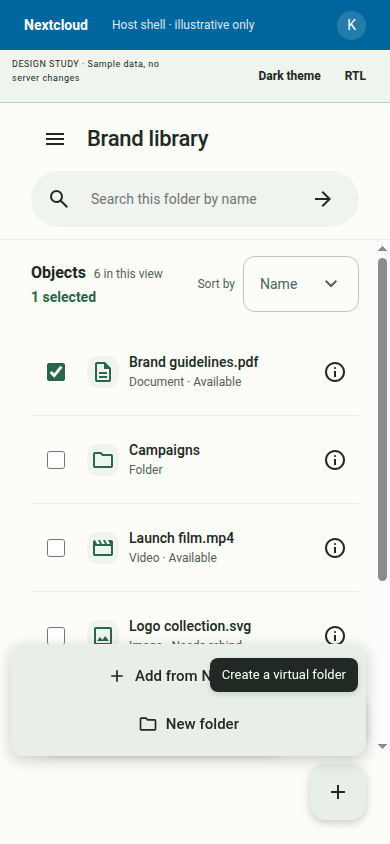
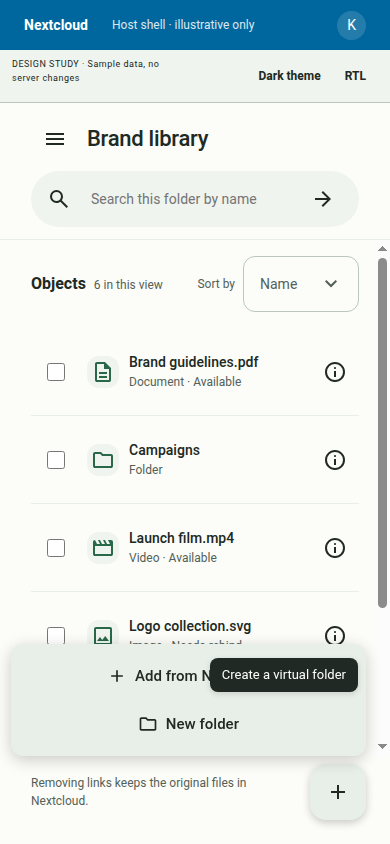
Refine responsive actions, FAB menu placement and full-row feedback

diff --git a/docs/design/prototype/prototype.css b/docs/design/prototype/prototype.css
@@ -91,7 +91,7 @@ body { margin:0; font:14px/1.5 system-ui,sans-serif; background:#f7f8fa; color:#
 #media-design .fab-area {position:fixed;z-index:10;}
 #media-design button.fab {display:flex;align-items:center;gap:12px;min-height:56px;min-width:56px;border-radius:16px;padding:16px 22px;background:var(--secondary);color:var(--on);box-shadow:0 3px 8px #0003;font-size:16px;}
 #media-design .fab[aria-expanded=true] {background:var(--container);}
-#media-design .action-menu {position:fixed;z-index:15;min-width:240px;background:var(--container);border-radius:12px;padding:8px;box-shadow:0 4px 16px #0003;max-height:calc(100dvh - 100px);overflow:auto;}
+#media-design .action-menu {position:fixed;z-index:15;width:max-content;min-width:min(240px,calc(100vw - 16px));background:var(--container);border-radius:12px;padding:8px;box-shadow:0 4px 16px #0003;max-height:calc(100dvh - 100px);overflow:auto;}
 #media-design .action-menu button {display:flex;align-items:center;gap:12px;width:100%;text-align:start;border-radius:8px;font-size:15px;font-weight:500;}
 #media-design .selection {z-index:9;display:flex;align-items:center;gap:8px;max-width:100%;min-height:64px;flex-shrink:0;}
 #media-design #reference-toolbar {background:var(--secondary);border-radius:32px;padding:8px;min-height:64px;box-shadow:0 3px 8px #0003;min-width:0;}
@@ -167,22 +167,31 @@ body { margin:0; font:14px/1.5 system-ui,sans-serif; background:#f7f8fa; color:#
  @keyframes toolbar-enter {from {opacity:0;translate:0 16px;} to {opacity:1;translate:0 0;}}
 }
 
-/* Compact creation stays available below reference actions until Add is invoked. */
+/* The FAB collapses to an icon on narrow panes and hides during reference actions. */
 @container plugin (max-width:1199px) {
  #media-design button.fab {padding:16px;}
  #media-design .fab>span {display:none;}
- #media-design main.has-toolbar.has-fab .selection {position:absolute;bottom:calc(100% + 4px);left:50%;transform:translateX(-50%);width:max-content;max-width:calc(100% - 32px);}
- #media-design main.has-toolbar.has-fab .library-footer {min-height:88px;padding:8px 16px 24px;}
- #media-design main.has-toolbar.has-fab .main-scroll {padding-block-end:92px;scroll-padding-block-end:92px;}
 }
 
 #media-design #add-bucket {margin-inline-start:auto;display:inline-flex;align-items:center;gap:4px;padding-inline:10px;white-space:nowrap;}
 #media-design .bucket-title {padding-inline-end:12px;}
 @container plugin (max-width:599px) {
- #media-design main.has-toolbar.has-fab .selection {width:calc(100% - 48px);max-width:calc(100% - 48px);}
- #media-design main.has-toolbar.has-fab #reference-toolbar {flex:1;justify-content:space-evenly;}
+ #media-design main.has-toolbar .library-footer {padding-inline:24px;}
+ #media-design main.has-toolbar .selection {width:100%;max-width:100%;}
+ #media-design main.has-toolbar #reference-toolbar {flex:1;justify-content:space-evenly;}
 }
 
 /* Packing is measured from pane space; icon targets never shrink below 48px. */
 #media-design .toolbar-actions.icon-actions .action-label {display:none;}
 #media-design .toolbar-actions.icon-actions button {width:48px;flex:0 0 48px;padding:0;}
+
+/* Extend the primary action without nesting the independent row controls. */
+#media-design .object {position:relative;isolation:isolate;}
+#media-design .object:hover,#media-design .object:has(:focus-visible) {background:var(--container);}
+#media-design .object:has(:active) {background:color-mix(in srgb,var(--on) 12%,var(--surface));}
+#media-design .object-name:hover {background:transparent;}
+#media-design .object-name::before {content:"";position:absolute;inset:0;cursor:pointer;}
+#media-design .object-name:focus-visible {outline:none;}
+#media-design .object-name:focus-visible::before {outline:3px solid var(--primary);outline-offset:-3px;}
+#media-design .object>.check,#media-design .object>.icon {position:relative;z-index:1;}
+#media-design .object>.type,#media-design .object>.binding {pointer-events:none;}

diff --git a/docs/design/prototype/prototype.js b/docs/design/prototype/prototype.js
@@ -108,9 +108,8 @@ function layoutToolbar(){
  const priority=['move-links','paste-links','copy-links','rename-link','remove-links'];
  const signature=()=>[...actions,'more-actions'].map(id=>$(id).hidden).join(',');
  const previous=signature();
- const mainWidth=$('main').getBoundingClientRect().width;
  const footerStyle=getComputedStyle($('library-footer'));
- const groupBudget=root.clientWidth<1200?mainWidth-(root.clientWidth<600?48:32):$('library-footer').clientWidth-parseFloat(footerStyle.paddingLeft)-parseFloat(footerStyle.paddingRight);
+ const groupBudget=$('library-footer').clientWidth-parseFloat(footerStyle.paddingLeft)-parseFloat(footerStyle.paddingRight);
  const style=getComputedStyle(toolbar),gap=parseFloat(style.columnGap)||0;
  const available=groupBudget-$('cancel-selection').getBoundingClientRect().width-8-parseFloat(style.paddingLeft)-parseFloat(style.paddingRight);
  toolbar.classList.remove('icon-actions');actions.forEach(id=>$(id).hidden=false);$('more-actions').hidden=true;
@@ -132,9 +131,8 @@ function layoutToolbar(){
  const controls=toolbarControls();const current=controls.includes(document.activeElement)?document.activeElement:controls.find(x=>x.tabIndex===0)??controls[0];controls.forEach(x=>x.tabIndex=x===current?0:-1);
 }
 function syncSurfaces(){
- const narrow=root.clientWidth<1200;
  const suspended=!$('details').hidden||$('explorer').hidden||$('task').open||$('reference-task').open||$('bucket-task').open||drawerOpen;
- const hide=suspended||(!narrow&&(selection.size>0||clipboard.length>0));
+ const hide=suspended||selection.size>0||clipboard.length>0;
  const contextual=(selection.size>0||clipboard.length>0)&&$('details').hidden&&!$('explorer').hidden&&!$('task').open&&!$('reference-task').open&&!$('bucket-task').open&&!drawerOpen;
  $('selection').hidden=!contextual;
  $('main').classList.toggle('has-toolbar',contextual);

diff --git a/docs/design/prototype/overlays.js b/docs/design/prototype/overlays.js
@@ -60,7 +60,7 @@ class DesignOverlays {
  bounds(){const r=this.root.getBoundingClientRect();return {left:Math.max(8,r.left+8),right:Math.min(innerWidth-8,r.right-8),top:Math.max(58,r.top+8),bottom:innerHeight-8};}
  place(element,trigger,above=false){
   const bounds=this.bounds(),r=trigger.getBoundingClientRect();element.style.maxWidth=Math.max(0,bounds.right-bounds.left)+'px';
-  const box=element.getBoundingClientRect();let x=r.right-box.width,y=above?r.top-box.height-8:r.bottom+8;
+  const box=element.getBoundingClientRect();let x=trigger.id==='fab'&&getComputedStyle(this.root).direction==='rtl'?r.left:r.right-box.width,y=above?r.top-box.height-8:r.bottom+8;
   if(y+box.height>bounds.bottom)y=r.top-box.height-8;
   element.style.left=Math.max(bounds.left,Math.min(x,bounds.right-box.width))+'px';element.style.top=Math.max(bounds.top,y)+'px';
  }

diff --git a/docs/design/reference-actions.md b/docs/design/reference-actions.md
@@ -1,5 +1,8 @@
 # Reference actions, creation FAB and selection toolbar
 
+Current behavior: Add FAB and contextual toolbar are mutually exclusive at every width. Selection or clipboard context hides Add; the separate X clears both and restores Add focus. The toolbar occupies the existing bottom action band on mobile and desktop, retaining adaptive packing and full mobile width. This latest user decision supersedes compact stacking/menu-over-toolbar requirements in historical revision notes below.
+
+
 User requirements recorded 2026-10-09 **before prototype or production code changes**. This revision supersedes the earlier standalone Add from Nextcloud/New folder buttons and minimal selection strip. Standalone prototype implementation is complete; production Vue/API integration remains pending. The user confirmed the intended skill is `.agents/skills/md3-extended-fab/SKILL.md`. Use it for the labeled/icon-only FAB, with md3-menu for the explicitly requested action menu composition, md3-toolbar for selection actions and md3-tooltip for hover/focus feedback.
 
 ## Reference semantics
@@ -32,9 +35,9 @@ Open by click, Enter or Space. Expose expanded state and popup association, move
 
 Use the saved md3-toolbar guidance for an app-owned action container; no invented md-toolbar API. Display it when selection contains references/folders, and retain a paste destination affordance while an app clipboard is populated even if selection is empty. Without selection or clipboard, hide it. Show the selected count immediately after the object count in the collection header. Place Move links, Copy links, Paste links and Remove links in the bottom toolbar; Rename link is available for exactly one selected node. Paste targets the current folder, not an ambiguously selected row. Label destructive commands Remove links rather than Delete files.
 
-On wide layouts (1200px and above), hide the creation FAB while the contextual toolbar is active. Below the 1200px FAB/toolbar pairing boundary, the user requests a regular icon-only FAB below the toolbar with 12px separation. Keep it available until an Add command is invoked. Use one separate trailing X action outside the toolbar to cancel reference actions, clearing selection and clipboard together. Remove the redundant Clear clipboard command from both toolbar and overflow. This latest user decision supersedes the earlier separate-clear behavior. Preserve toolbar state while navigating to a paste destination; announce destination and clipboard count. Hide/suspend context actions on the token page and during an unrelated modal task.
+Hide the creation FAB while the contextual toolbar is active on every width, including clipboard-only context. It returns after X ends reference actions; Add task dialogs continue to suspend it. Use one separate trailing X action outside the toolbar to cancel reference actions, clearing selection and clipboard together. Remove the redundant Clear clipboard command from both toolbar and overflow. This latest user decision supersedes the earlier separate-clear behavior. Preserve toolbar state while navigating to a paste destination; announce destination and clipboard count. Hide/suspend context actions on the token page and during an unrelated modal task.
 
-Place a rounded floating toolbar at the bottom of the plugin pane, outside the object scroll flow. Reuse the FAB clearance band and hide the explanatory footer text while contextual actions are shown. Selection must not move the first row down or shrink the list viewport. On narrow layouts, float the toolbar above the existing FAB band and add scroll-end clearance so final-row pointer and keyboard actions can scroll clear. On desktop, show readable labels and overflow if needed. On mobile, keep the separate Cancel action and the most relevant commands reachable, with commands packed according to measured pane space, prioritizing Move/Paste and placing only hidden commands in trailing overflow; do not make a screen-wide horizontal action scroller. Reserve content space for the surface. All targets remain at least 48px. If using role=toolbar, implement a single Tab entry and arrow navigation, including focus repair when controls become disabled/hidden. The action menu and toolbar are distinct widgets with their own keyboard rules.
+Place a rounded floating toolbar at the bottom of the plugin pane, outside the object scroll flow. Reuse the FAB clearance band and hide the explanatory footer text while contextual actions are shown. Selection must not move the first row down or shrink the list viewport. Use the same bottom action band on narrow layouts, with no additional stack or scroll-end padding; final-row controls must remain reachable above it. On desktop, show readable labels and overflow if needed. On mobile, keep the separate Cancel action and the most relevant commands reachable, with commands packed according to measured pane space, prioritizing Move/Paste and placing only hidden commands in trailing overflow; do not make a screen-wide horizontal action scroller. Reserve content space for the surface. All targets remain at least 48px. If using role=toolbar, implement a single Tab entry and arrow navigation, including focus repair when controls become disabled/hidden. The action menu and toolbar are distinct widgets with their own keyboard rules.
 
 Move opens a plugin-folder destination task; Copy updates the app clipboard; Paste opens collision/name review when needed; Remove opens an explicit virtual-only confirmation. Preserve inputs and selection after failure. Production server authorization remains authoritative for every command.
 
@@ -73,7 +76,7 @@ See [FAB menu with tooltip](prototype/fab-menu.png) and [selection toolbar](prot
 Latest placement correction: the toolbar now occupies a 64px content-hugging floating surface in the existing bottom action band. Selection/clipboard counts are in the collection header. Entry slides upward with a custom 180ms animation unless reduced motion is requested; no Material library animation API is implied. Toolbar placement and counts supersede the earlier inline selection strip. See [desktop toolbar](prototype/toolbar.png), [mobile toolbar](prototype/toolbar-mobile.png) and the 201-check [validation record](validation.md). Reference behavior and production integration status are unchanged.
 
 
-Compact Add lifecycle: clicking the FAB opens a higher-layer menu that may cover the toolbar. Opening, Escape, tooltip dismissal and outside dismissal preserve reference selection/clipboard. Invoking either Add from Nextcloud or New folder clears selection/clipboard and ends the toolbar context before opening the task. Cancelling the task retains the cleared state. The trailing compact toolbar button uses expand-more and preserves existing menu keyboard/focus behavior. See [compact Add over toolbar](prototype/compact-add-menu.png). This latest user decision supersedes blanket FAB/toolbar mutual exclusion in earlier revision notes.
+Superseded compact Add lifecycle (historical): clicking the FAB opens a higher-layer menu that may cover the toolbar. Opening, Escape, tooltip dismissal and outside dismissal preserve reference selection/clipboard. Invoking either Add from Nextcloud or New folder clears selection/clipboard and ends the toolbar context before opening the task. Cancelling the task retains the cleared state. The trailing compact toolbar button uses expand-more and preserves existing menu keyboard/focus behavior. The current [compact Add menu](prototype/compact-add-menu.png) is available after cancelling reference context. This latest user decision supersedes blanket FAB/toolbar mutual exclusion in earlier revision notes.
 
 
 Latest cancellation composition: the rounded toolbar contains only reference commands; an 8px gap separates a 56px rounded-square tonal X button. The X is outside role=toolbar, has its own normal Tab stop, accessible Cancel reference actions name and tooltip. It remains enabled for selection-only, clipboard-only or combined context. Activation closes action overlays, clears selection/clipboard, hides the action group and returns focus to Add. Already applied reference operations remain intact; cancellation affects pending interaction state only. Desktop and compact grouping retain existing bottom placement, FAB stacking and Add menu lifecycle.
@@ -83,3 +86,9 @@ Latest compact width: below 600px, the full toolbar/X action group spans equal 2
 
 
 Adaptive packing supersedes fixed action-hiding breakpoints: measure pane/group space after reserving X, separation, padding, gaps and overflow. Keep labels if all commands fit, otherwise use 48px icons and maximize visible actions. At 390px all five commands fit and overflow is hidden; 360–375px show three commands plus overflow; 320px shows Move/Paste plus overflow. Only hidden commands appear in the menu, with matching disabled state. Resize/font/group observers repack and repair focus; unchanged packing preserves open menus.
+
+
+Creation-menu geometry: compute placement from a stable intrinsic width; align the FAB menu logical trailing edge with its trigger (RTL included). Preserve desktop 29px trailing clearance and compact placement, with viewport clamping on very narrow panes. Reopening or resizing an open menu must retain its anchor relationship without affecting reference context.
+
+
+Object-row feedback spans the full row rather than only the name button. Whitespace activates the primary open/inspect action. Checkbox and information controls remain independent siblings; neither checkbox activation nor keyboard focus implicitly opens/navigates or changes other reference context.

diff --git a/docs/design/validation.md b/docs/design/validation.md
@@ -99,3 +99,28 @@ Refreshed seven snapshots, including [bucket dialog](prototype/bucket-dialog.png
 Chrome 154.0.8037.97: **333 checks passed**. Continuous compact sweep verifies 3, 4, 4, 5, 5 and 5 visible slots at 320, 360, 375, 390, 420 and 480px respectively, including the overflow arrow only when needed. All targets retain 48px geometry and no toolbar overflow. At 390px all five reference actions are visible. Tests verify hidden-command-only menu contents, disabled-state parity, focus moving to overflow on shrink and back to a visible command on grow, obsolete menu dismissal, stable menu preservation on a 320→321px resize, long-label fallback and readable-label restoration. Existing reference, bucket, cancellation, FAB/menu/tooltip, short-height, RTL and reduced-motion checks remain passing without runtime exceptions.
 
 During verification, intrinsic labeled widths needed nonshrinking buttons for accurate measurement; otherwise flex shrinking understated the required width. Resize observers must close the menu only when the packed command set changes; closing on every observation caused a tooltip/menu regression. Both are now covered by the suite. Visually inspected the refreshed [390px toolbar](prototype/toolbar-mobile.png) showing five actions. Snapshot refresh accompanies this revision. Syntax and Git whitespace checks passed; backend/production integration and full assistive technology/device/zoom/contrast checks remain pending.
+
+
+## FAB/toolbar exclusion on every width
+
+2026-10-09: Documented the latest user correction before code. Mobile now hides Add during reference context exactly like desktop, superseding compact stacking/menu-over-toolbar behavior. Toolbar/X occupies the existing bottom action band, retaining full mobile width and measured packing; removed compact extra scroll-end padding. Packing uses actual footer content width after padding at every size.
+
+Chrome 154.0.8037.97: **332 checks passed**. Replaced superseded paired/menu-overlay cases with all-width exclusion and Add-after-cancellation checks. All nine existing viewports hide FAB when toolbar is active. At 1440/1024/390/320px, selected/copied context hides Add, X clears context/restores Add focus, both Add entries open their tasks afterward and task cancellation restores Add without old clipboard state. Selection-only/clipboard-only/combined contexts, resize/RTL, short-height/final-row access, adaptive 48px targets, native keyboard, tooltip/menu, bucket tasks and long labels remain passing without runtime exceptions.
+
+Moving the toolbar back into footer flow required measuring footer content width rather than the earlier absolute-positioned compact budget; the 1024px fit check caught and verified this correction. Refreshed seven snapshots and visually inspected the mobile toolbar: all five actions and separate X remain, FAB is hidden, and contextual actions sit lower in the existing bottom band. The compact Add-menu snapshot now shows creation after cancellation rather than overlapping contextual actions. Syntax and Git whitespace checks passed. Standalone UI only; backend tests were not rerun, and production/assistive-technology/device/zoom/contrast checks remain pending.
+
+
+## FAB menu edge alignment — 2026-10-09
+
+Documented the requirement before code. Reproduced the desktop defect at 1440px: the menu's final right edge was 1440px while the FAB ended at 1411px. Fixed-position automatic sizing depended on the previous left position, so measuring before positioning produced a different final width. The new trailing-alignment assertion failed at 1920px before the fix.
+
+Use an intrinsic menu width independent of fixed offsets, bounded by the viewport; anchor FAB menus to the logical trailing edge, including RTL. At desktop widths the menu retains the FAB's 29px inset; at 390px it retains the existing compact layout and 24px inset. At 320px a wider menu clamps to the 8px viewport boundary rather than clipping. Keep the 8px vertical anchor gap.
+
+Chrome 154.0.8037.97: **365 checks passed**, including nine viewport sizes, initial/repeated menu open, live open-menu resizing through 1440/1024/390/320/1440px, RTL alignment, balanced content insets, all-width FAB/toolbar exclusion and existing tooltip/menu, keyboard, reference and bucket-task regressions. Desktop and compact Add-menu screenshots were refreshed and visually inspected. No runtime exceptions. Production Nextcloud integration, real touch/screen-reader and full zoom/contrast testing remain pending; no backend tests were rerun for this isolated study change.
+
+
+## Full-row primary action feedback — 2026-10-09
+
+Documented before code. The old `.object-name` button alone received the rounded hover background and clicks; the new whitespace hit-test failed at 1440px before implementation. A positioned pseudo-element stretches the native primary button hit area across the row, while sibling checkbox and information controls remain above it with their own targets. Row hover/press/focus state layers replace the name-only pill; primary keyboard focus outlines the whole row. Metadata remains readable without intercepting the primary hit area. No row-level click handler, nested interactive controls or duplicate focus stops were introduced.
+
+Chrome 154.0.8037.97: **383 checks passed**. Added desktop/mobile whitespace hit tests and activation, whole-row hover/press styling, keyboard focus outline, checkbox selection without opening, folder information without navigation, and RTL/dark-theme primary and secondary hit testing. Existing nine-viewport layout, final-row clearance, menu/tooltip, reference, adaptive toolbar and bucket-task checks remain passing with no runtime exceptions. Mobile full-row feedback screenshot was visually inspected; toolbar snapshot refreshed. See [row feedback](prototype/row-feedback-mobile.png). Production integration, real touch and screen-reader validation remain pending. No backend changes or backend test rerun.

diff --git a/docs/agent-handoff.md b/docs/agent-handoff.md
@@ -29,7 +29,13 @@ The user corrected the skill name and confirmed `.agents/skills/md3-extended-fab
 
 ## Latest layout revision
 
-The user requested equal left/right padding, a lower footer, increased desktop FAB inset and fewer stacked/duplicate headings. See [layout refinement](design/layout-refinement.md), written before code. The standalone header now combines title/search; root breadcrumbs are hidden while nested navigation remains. Balanced scrollbar gutters align content across header/list/footer; the bottom footer reserves FAB space only as needed. Desktop FAB inset is 29px; compact remains 24px. The latest user correction moves the contextual toolbar into a 64px bottom floating surface reusing the FAB band, with selected/clipboard counts beside the object count. Selection preserves first-row position and list viewport height. Latest compact behavior: below 1200px plugin width, show a regular icon-only FAB below the toolbar (12px gap), and use expand-more for toolbar overflow. The FAB menu may cover the toolbar; open/dismiss preserves context, while invoking either Add entry clears selection/clipboard before its task. Cancelling that task keeps context cleared. Scroll-end padding lets final-row keyboard/pointer controls clear both floating surfaces without reducing list viewport height. Wide layouts remain exclusive. Latest cancellation correction: one separate trailing 56px X surface sits 8px outside the toolbar. It replaces inline Clear selection and Clear clipboard (including overflow), clears both selection/clipboard, closes action overlays and restores Add focus. It stays enabled in clipboard-only context and has its own Tab stop. Applied reference operations remain intact. Latest width/creation correction: below 600px the toolbar/X group spans equal 24px pane insets, matching the FAB edge. A + Add button beside Buckets opens a sample-only bucket dialog with empty/duplicate validation; creation selects an in-memory empty destination and compact cancel/create restores focus/navigation. Reload resets sample buckets; persistence/storage semantics remain unresolved. Latest adaptive packing correction: command visibility is measured from pane/group space instead of fixed action breakpoints. Labels remain when all fit; otherwise 48px icons pack with Move/Paste priority and only hidden commands enter overflow. At 390px all five commands fit; resize/font changes update packing and repair focus while unchanged packing preserves open menus. The current study passed 333 Chrome checks including nine widths, short heights, equal measured insets, footer/action clearance, reduced motion, selection/details/search and existing action/tooltip regressions. Refreshed snapshots were visually inspected. Production integration remains pending.
+The standalone study uses one title/search header, nested-only breadcrumbs, symmetric content insets and a bottom action band. See [layout refinement](design/layout-refinement.md), recorded before code changes.
+
+Current user decision: hide Add FAB whenever selection or clipboard context displays the toolbar, on **every width**. This supersedes earlier compact stacking/menu-over-toolbar requests. The separate 56px trailing X clears selection and clipboard together, closes overlays and restores Add focus. Toolbar and X share the existing bottom action band without reducing list height or adding compact scroll-end padding. Mobile keeps equal 24px group insets and adaptive command packing (five commands fit at 390px); overflow contains only hidden commands. Actual footer space, resize/font/group changes and focus/menu stability are measured. FAB insets remain 29px desktop and 24px compact when visible.
+
+The + Add button beside Buckets opens a sample-only bucket dialog with empty/duplicate validation and focus restoration. Sample destinations reset on reload; production storage semantics/persistence remain unresolved. Current study: 332 Chrome checks passed, including all-width FAB/toolbar exclusion, selection-only/clipboard-only/combined cancellation, both Add entries after cancellation, nine viewports, short heights, adaptive packing, keyboard, tooltip/menu, RTL and reduced motion. Snapshots were refreshed and mobile visually inspected. Production integration remains pending.
+
+Latest menu correction: intrinsic width prevents fixed-position menus from changing size after placement. FAB menu trailing edges now align with FAB (RTL included), preserving the 29px desktop inset and compact geometry; very narrow menus clamp inside the viewport. Initial/repeated opens and live resize are measured. Current standalone evidence is **365 Chrome checks passed**, with desktop/mobile menu snapshots visually inspected. See design/validation.md; production integration remains pending.
 
 ## Bucket question still open
 
@@ -98,3 +104,6 @@ Root deployment on this host: `sudo sh scripts/deploy-snap.sh`. The script disab
 Phase 1: `81a917e`. Phase 2: `f57a04c`. Material skills: `4441b57`. Branch: `main`. Remote: `https://git.kohtnas.com/publicgroup/nextcloud-media-storage.git`.
 
 The user authorized committing and pushing the handoff and skills on 2026-10-09. Consult Git log/status for the final handoff commit and synchronization; do not reuse that authorization as an unconditional instruction to push future work. Inspect local changes before continuing and preserve unrelated edits.
+
+
+Latest row feedback correction: the primary action extends through row whitespace and hover/press/keyboard focus feedback spans the whole row. Keep sibling checkbox/info actions independent and preserve dimensions/insets. Current standalone evidence: **383 Chrome checks passed**, including desktop/mobile, RTL/dark theme and existing regressions. Mobile row feedback screenshot visually inspected; production integration remains pending.

diff --git a/docs/agile/ui-tasks.md b/docs/agile/ui-tasks.md
@@ -37,13 +37,13 @@ Add UI-12: FAB/toolbar/tooltip interaction regression, including tooltip appeari
 
 ## Design-study evidence
 
-The standalone prototype now exercises creation FAB/menu, contextual reference actions, clipboard aliases and tooltip/menu interactions on sample data; sample-model tests passed; the current layout/action suite passes 333 Chrome checks. Production UI-01 through UI-12 remain pending; see [prototype validation](../design/validation.md). It provides no deployment, API integration, upload, bucket persistence or production accessibility evidence.
+The standalone prototype now exercises creation FAB/menu, contextual reference actions, clipboard aliases and tooltip/menu interactions on sample data; sample-model tests passed; the current layout/action suite passes 332 Chrome checks. Production UI-01 through UI-12 remain pending; see [prototype validation](../design/validation.md). It provides no deployment, API integration, upload, bucket persistence or production accessibility evidence.
 
 8. Copy a reference to another virtual folder, give it a different name, and verify both references retain the same original Nextcloud binding. Move/remove one reference and confirm the original file and other references remain. Copying a folder duplicates only virtual structure/references; clipboard conflicts/errors are explicit.
 9. Display the selection toolbar and paste destination state without overlapping content or a competing creation FAB. Tooltips must not close menus or steal focus. Small desktop text follows the updated sizing and remains readable in both themes.
 
 
-10. Preserve the [refined library layout](../design/layout-refinement.md) in production: one title/search navbar, conditional nested breadcrumbs, equal measured content insets, a bottom-aligned content-sized footer and responsive FAB clearance. Recheck proportions after each component integration across pane widths/heights and selection/details/search states. Use the bottom floating toolbar in the existing FAB band, with selected counts after the object count. Selection must preserve list height and first-row position. Standalone evidence is now 333 Chrome checks; production UI tasks remain pending.
+10. Preserve the [refined library layout](../design/layout-refinement.md) in production: one title/search navbar, conditional nested breadcrumbs, equal measured content insets, a bottom-aligned content-sized footer and responsive FAB clearance. Recheck proportions after each component integration across pane widths/heights and selection/details/search states. Use the bottom floating toolbar in the existing FAB band, with selected counts after the object count. Selection must preserve list height and first-row position. Standalone evidence is now 332 Chrome checks; production UI tasks remain pending.
 
 
 11. Below the toolbar overflow breakpoint, retain an icon-only Add FAB below the floating toolbar and use an expand-more arrow for the final toolbar action. Add menus may cover the toolbar. Test selection/clipboard preservation on open, tooltip, Escape/outside dismissal; clear context only on invoking either Add command and keep it cleared after task cancellation. Verify both stack levels, last-row keyboard/pointer clearance, resize/RTL and no extra permanently reserved list height. Wide layouts retain exclusive FAB/toolbar behavior.
@@ -56,3 +56,12 @@ The standalone prototype now exercises creation FAB/menu, contextual reference a
 
 
 14. Pack toolbar commands from actual pane/group width, not fixed Copy/Rename/Remove breakpoint rules. Reserve X, toolbar padding/gaps and overflow, keep 48px icon targets, prefer readable labels when all fit, and expose only hidden commands in overflow. Observe resize/font changes and preserve focus/menu state. Verify 320/360/375/390/420/480px widths, including five visible commands at 390px.
+
+
+15. Latest user decision supersedes compact action stacking: hide Add FAB whenever selection/clipboard context displays the toolbar at every width. Place contextual actions in the existing bottom band with no extra compact scroll-end padding. Keep full mobile width and measured packing. Test clipboard-only context, cancellation restoring Add, resize/RTL and final-row reachability. Historical paired-action acceptance scenarios are superseded.
+
+
+16. Size anchored creation menus independently of fixed offsets before measuring placement. Align the menu with the FAB logical trailing edge (29px desktop inset), preserve compact layout, and clamp very narrow menus inside the viewport. Verify final geometry on first/repeated open, live resize and RTL alongside tooltip/menu regression checks.
+
+
+17. Give object rows a full-row primary hit area and hover/press/keyboard focus feedback, retaining independent sibling checkbox and information controls. Preserve native semantics, row dimensions, dividers and bottom action clearance. Verify whitespace activation, selection without opening, folder information without navigation, RTL and both themes.

diff --git a/docs/design/layout-refinement.md b/docs/design/layout-refinement.md
@@ -1,6 +1,13 @@
 # Library layout refinement
 
+## FAB menu alignment correction — 2026-10-09
+
+Record before implementation: keep the creation menu width independent of its previous fixed position. Align its trailing edge with the FAB trailing edge (leading physical edge in RTL), retaining the 8px vertical anchor gap and viewport containment. Desktop must preserve the FAB's 29px trailing inset instead of letting the menu grow beyond that edge. Preserve the compact layout and its 24px FAB inset; clamp wider menus only when space requires it. Verify initial open, repeated open, live resizing, RTL and tooltip/menu ownership with measured final geometry. This affects only the standalone study.
+
+
 Requested 2026-10-09; specification written before changing the prototype.
+
+Current decision — FAB/toolbar exclusivity on every width: the latest user correction supersedes compact stacking and menu-over-toolbar behavior below. Hide Add FAB whenever selection or clipboard context displays the toolbar, on both mobile and desktop. Place the toolbar/X group in the existing bottom action band, removing the compact extra scroll-end clearance. Retain full mobile group width, adaptive command packing and separate X. X clears selection/clipboard and restores Add with focus; clipboard-only context also hides Add. Test all viewport widths, clipboard-only state, resize/RTL, final-row reachability and Add availability after cancellation. Historical paired-action screenshots/tests are superseded; no Add menu can be opened while contextual actions are active.
 
 Latest adaptive-action correction, recorded before code: remove fixed breakpoint rules that hide Copy/Rename/Remove. Measure the actual main-pane action budget after reserving the separate 56px X, 8px separation, toolbar padding/gaps and any overflow trigger. Show all labeled commands when they fit; otherwise use 48px icon targets and show as many commands as fit. Prefer Move and Paste, then Copy, Rename and Remove when overflow is necessary. Overflow contains exactly the hidden commands, preserving names, disabled state and keyboard behavior. Hide its arrow when all commands fit. Recompute after context changes, pane/group resize and font loading. Repair focus when a focused command moves into overflow or the focused overflow trigger disappears. At the supplied 390px layout, five 48px commands fit inside the expanded toolbar; narrower widths may still require overflow. Verify continuous width changes rather than only breakpoint classes.
 
@@ -27,3 +34,8 @@ Replace the unconditional 112px bottom padding with a separate, content-sized fo
 Retain the compact FAB inset of 24px. Increase the desktop trailing inset to 29px (approximately 21% above 24px, rounded to whole CSS pixels). Keep 24px bottom spacing and safe-area support. Bound the action to the main pane, including when details are open, and preserve mutually exclusive selection/FAB behavior.
 
 Verify equal measured content insets, header/search alignment, root breadcrumb removal, nested navigation, footer position, FAB clearance and toolbar fit after each layout slice. Check expanded, breakpoint-adjacent, compact, short-height, details, search/empty, selection, dark and RTL states. Record observed results separately from pending host integration and accessibility checks. This revision changes only the standalone study; reference semantics and backend contracts are unchanged.
+
+
+## Full-row interaction feedback — 2026-10-09
+
+Recorded before code: extend the primary file/folder action hit area through unused row space and show hover, press and primary keyboard-focus feedback across the complete row rather than a rounded name-only pill. Keep the row itself a non-interactive list item, with sibling native checkbox, primary button and information button. Checkbox and information targets retain independent hit areas and keyboard focus; selecting never opens details or a folder. Keep row dimensions, dividers, list insets and toolbar clearance unchanged. Verify pointer hit testing at row edges, pressed/focus styling, independent actions, RTL and both themes on desktop/compact widths. Standalone study only.

diff --git a/docs/design/responsive-plugin.md b/docs/design/responsive-plugin.md
@@ -4,7 +4,7 @@ Design proposal, 2026-10-09. Requested direction: MinIO-like organization with M
 
 The latest user action requirements are recorded in [reference actions, FAB and toolbar](reference-actions.md). They supersede the initial standalone creation buttons and minimal selection strip; the current prototype and screenshots now include the action revision; production integration remains pending.
 
-The [library layout refinement](layout-refinement.md) supersedes the original stacked heading/search arrangement: one local navbar, conditional nested breadcrumbs, symmetric content insets and a bottom-aligned footer. Toolbar commands adapt to measured available width, showing more commands as space grows and placing only hidden commands in overflow. Contextual actions float at the bottom, with a separate trailing X button that clears selection and clipboard together, and selected/clipboard counts beside the object count; wide layouts reuse the FAB action band without shrinking the list. Narrow layouts retain an icon-only FAB below the toolbar with scroll-end clearance. Opening its menu preserves reference context; invoking an Add entry clears it.
+The [library layout refinement](layout-refinement.md) supersedes the original stacked heading/search arrangement: one local navbar, conditional nested breadcrumbs, symmetric content insets and a bottom-aligned footer. Toolbar commands adapt to measured available width, showing more commands as space grows and placing only hidden commands in overflow. Contextual actions float at the bottom, with a separate trailing X button that clears selection and clipboard together, and selected/clipboard counts beside the object count; wide layouts reuse the FAB action band without shrinking the list. On all widths, the toolbar hides the FAB and uses its bottom action band. X clears reference context and restores Add; mobile retains its full-width adaptive toolbar.
 
 Review the [interactive design study](prototype/index.html). Open it in a browser, resize the window, and try bucket filtering/navigation, folder navigation, submitted search, selection, object details, a temporary sample folder, reference Copy/Paste/Rename/Move/Remove, creation FAB/menu, contextual toolbar, hover/focus tooltips, light/dark themes and RTL. Data is held in memory and resets on reload. The top blue header is an illustrative host placeholder; production uses the existing Nextcloud shell. [Desktop snapshot](prototype/desktop.png) and [mobile snapshot](prototype/mobile.png) show the latest layout.
 
@@ -104,3 +104,9 @@ Renamed the primary action to Add from Nextcloud: select an accessible existing 
 
 
 2026-10-09 action prototype completed: Add FAB/menu replaces standalone creation buttons; the contextual toolbar and app clipboard manipulate sample virtual references only; hover/focus tooltips preserve open-menu state; desktop small text increased. Main content scrolls independently above a reserved FAB region. [Updated action evidence](reference-actions.md#standalone-implementation-evidence) and [validation](validation.md) distinguish this study from production behavior.
+
+
+Creation-menu placement: use intrinsic width independent of fixed position, align its logical trailing edge with Add FAB, and preserve the 29px desktop inset. Compact geometry remains unchanged, with viewport clamping when the menu cannot fit at the FAB edge. Verify initial/repeated opens, live resizing and RTL; see layout-refinement.md and validation.md.
+
+
+Object rows use full-row hover/press feedback and a row-wide primary keyboard-focus outline on compact and expanded panes. The primary native button extends through unused row space; sibling checkbox and information controls retain independent hit targets. Row activation opens its item; only the checkbox changes selection.

diff --git a/tests/README.md b/tests/README.md
@@ -80,7 +80,7 @@ See [design validation](../docs/design/validation.md) for recorded results and u
 The design browser suite also measures bottom contextual-toolbar containment, unchanged list viewport/first-row position on selection, selected-count placement after the object count, short-height last-row clearance and reduced-motion entry behavior. It writes compact toolbar snapshots to `/tmp/mediastorage-toolbar-390.png` and `/tmp/mediastorage-toolbar-320.png` for visual review; these checks do not establish actual Nextcloud or assistive-technology integration.
 
 
-Compact action tests additionally verify toolbar-above-FAB geometry, expand-more overflow, menu occlusion through hit testing, preserved reference context on open/Escape/outside dismissal, both Add entries clearing context before their task, task cancellation, resize/RTL, and keyboard focus scrolling the last row above the stacked actions. Animation geometry waits for the toolbar's actual animation completion; cancelled-task focus checks wait for the native dialog close event.
+Action tests verify FAB/toolbar mutual exclusion at every width, including clipboard-only context and resize/RTL. X restores Add and clears selection/clipboard before either Add task can open. Final-row focus/scroll, toolbar overflow and tooltip ownership remain covered. Geometry waits for actual toolbar animation completion; cancelled-task focus checks wait for the native dialog close event.
 
 
 Cancellation coverage includes separate toolbar/X composition, 8px gap and 56px target, no duplicate clear commands, selection-only/clipboard-only/combined state at desktop/compact/short sizes, unchanged reference listings, Tab/Enter/Space focus and RTL placement. Native button activation in CDP includes virtual key codes and text events for Enter/Space.
@@ -90,3 +90,9 @@ The study suite also checks mobile action-group/FAB edge alignment and sample bu
 
 
 Adaptive-toolbar checks sweep 320/360/375/390/420/480px, verify 3/4/4/5/5/5 visible slots (including overflow where needed), 48px targets, hidden-command-only menu contents and disabled-state parity. They also check focus migration during shrink/grow, stable menu state when packing does not change, long-label fallback and label restoration at wide sizes.
+
+
+FAB-menu geometry checks assert final trailing alignment and viewport containment at nine widths, repeat opening after viewport changes, resize an already-open menu through desktop/compact widths, and verify RTL anchoring. At very narrow widths, alignment yields to the 8px viewport boundary. Current standalone Chrome result: 365 checks passed; production integration remains untested.
+
+
+Object-row regression checks cover desktop/mobile primary whitespace hit area and activation, full-row hover/press/keyboard focus styling, independent checkbox and folder-info actions, and RTL/dark-theme hit testing. The suite writes `/tmp/mediastorage-row-feedback.png`. Current standalone Chrome result: 383 checks passed; real touch/screen-reader and production integration remain pending.

diff --git a/docs/agile/sprint-backlogs/sprint-03.md b/docs/agile/sprint-backlogs/sprint-03.md
@@ -69,3 +69,12 @@ No deadline, implementation owner, new app version, or tested dependency version
 
 
 2026-10-09: Replaced fixed toolbar action hiding with measured adaptive packing after documenting the requirement. Five icon commands fit at 390px; narrower sizes reserve overflow for exactly hidden commands, retaining 48px targets. Resize/font/group updates preserve focus and stable menus, with labels restored when space permits. 333 Chrome checks passed, including a continuous compact sweep, long labels and focus/menu resize regressions. Updated mobile snapshot visually inspected; production integration remains pending.
+
+
+2026-10-09: Latest user correction makes FAB/toolbar mutually exclusive at every width, superseding compact stacking. Toolbar returns to the existing bottom band with full mobile width/adaptive packing; X clears context and restores Add. 332 Chrome checks passed including clipboard-only exclusion, resize/RTL and both Add entries after cancellation. Snapshots refreshed; mobile visually inspected. No backend changes or production integration.
+
+
+2026-10-09: Documented and corrected desktop creation-menu alignment. Intrinsic width removes position-dependent sizing; the menu aligns with FAB trailing edge, including RTL, while compact layout and narrow viewport clamping remain intact. 365 Chrome checks passed, including initial/repeated open and live resize. Desktop/mobile menu snapshots visually inspected; standalone study only.
+
+
+2026-10-09: Documented and implemented full-row primary hit area and hover/press/focus feedback, replacing the name-only pill. Checkbox/info remain independent native controls. 383 Chrome checks passed including desktop/mobile whitespace activation, selection/info isolation, keyboard focus and RTL/dark theme. Mobile screenshot inspected; standalone study only.
